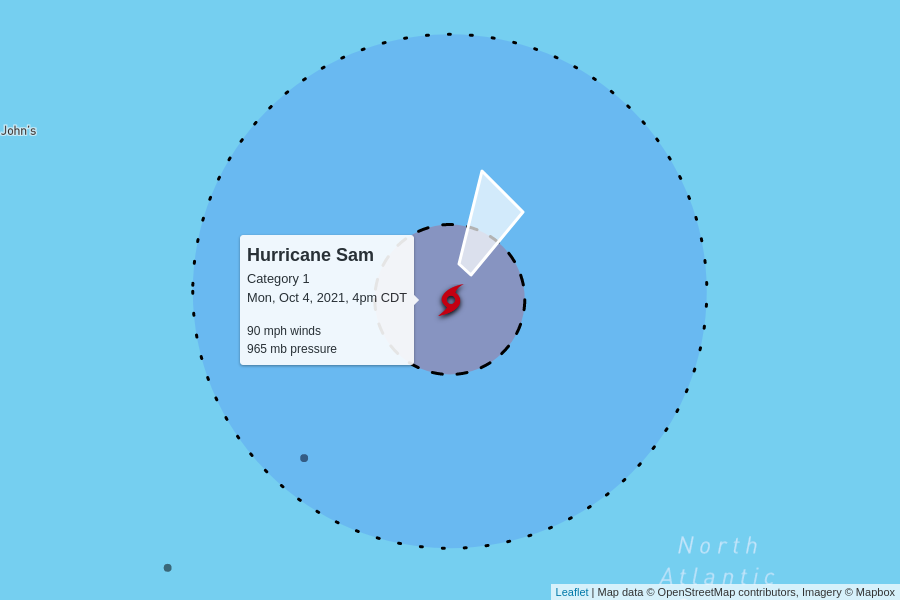
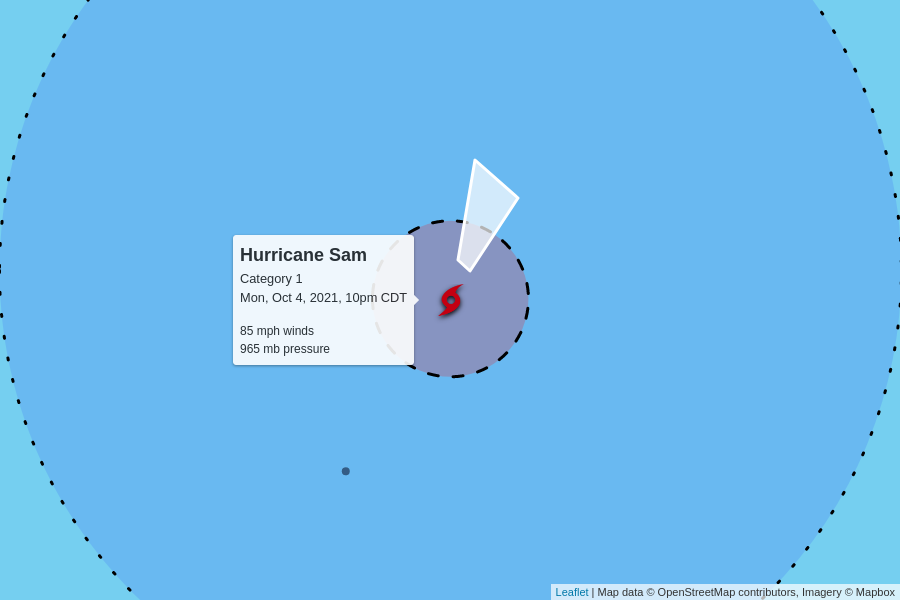
automatic update

diff --git a/docs/index.html b/docs/index.html
@@ -100,7 +100,7 @@
         <td colspan="6" class="storm category-1" >
           <h2>
             Hurricane Sam - Category 1
-            <p class="updated">last updated <span data-time>2021-10-04T21:00:00.000Z</span></p>
+            <p class="updated">last updated <span data-time>2021-10-05T03:00:00.000Z</span></p>
           </h2>
         </td>
       </tr>
@@ -115,12 +115,12 @@
       </tr>
       <tr>
         <td class="spacer"></td>
-        <td>90 mph</td>
+        <td>85 mph</td>
         <td>965 mb</td>
         <td>
-          36 mph to the northeast
+          29 mph to the north-northeast
           <br/>
-          <span style="display: inline-block; font-size: 1.5em; transform: rotate(35deg);">↑</span>
+          <span style="display: inline-block; font-size: 1.5em; transform: rotate(30deg);">↑</span>
         </td>
         <td><a href="https://raw.githubusercontent.com/mgwalker/atlantic-hurricanes/main/data/csv/AL182021.csv">AL182021.csv</a></td>
         <td><a href="https://www.nhc.noaa.gov/archive/2021/SAM.shtml?">NHC advisories</a></td>
